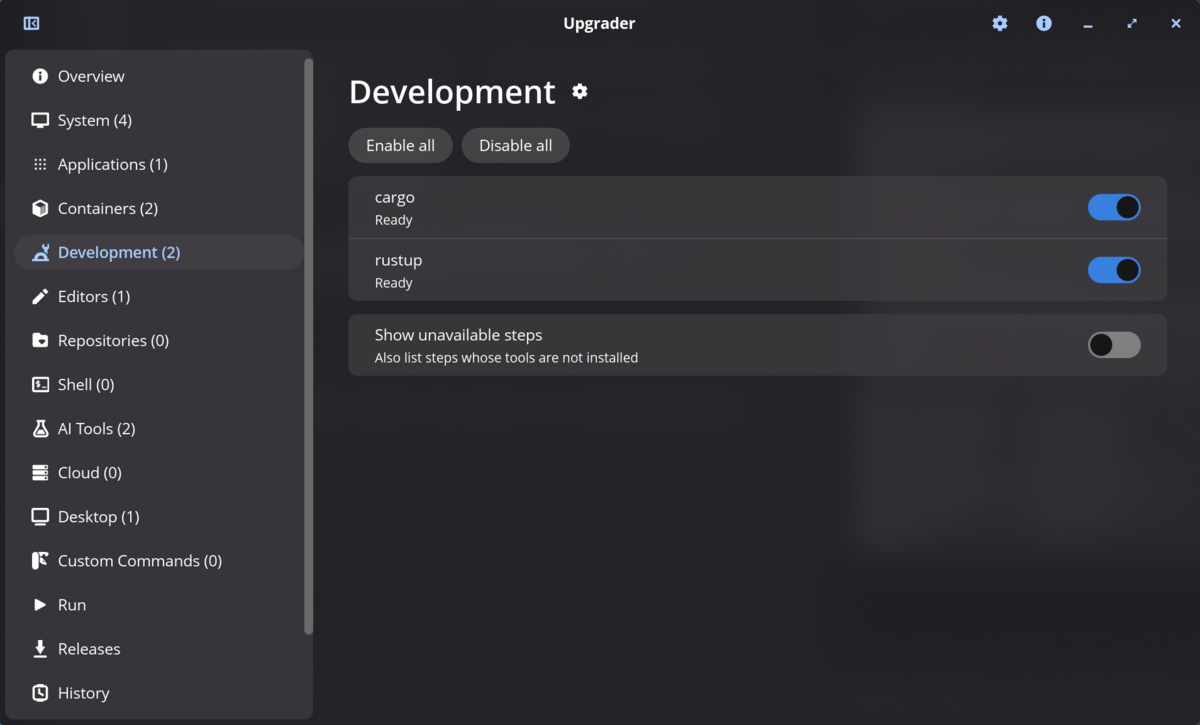
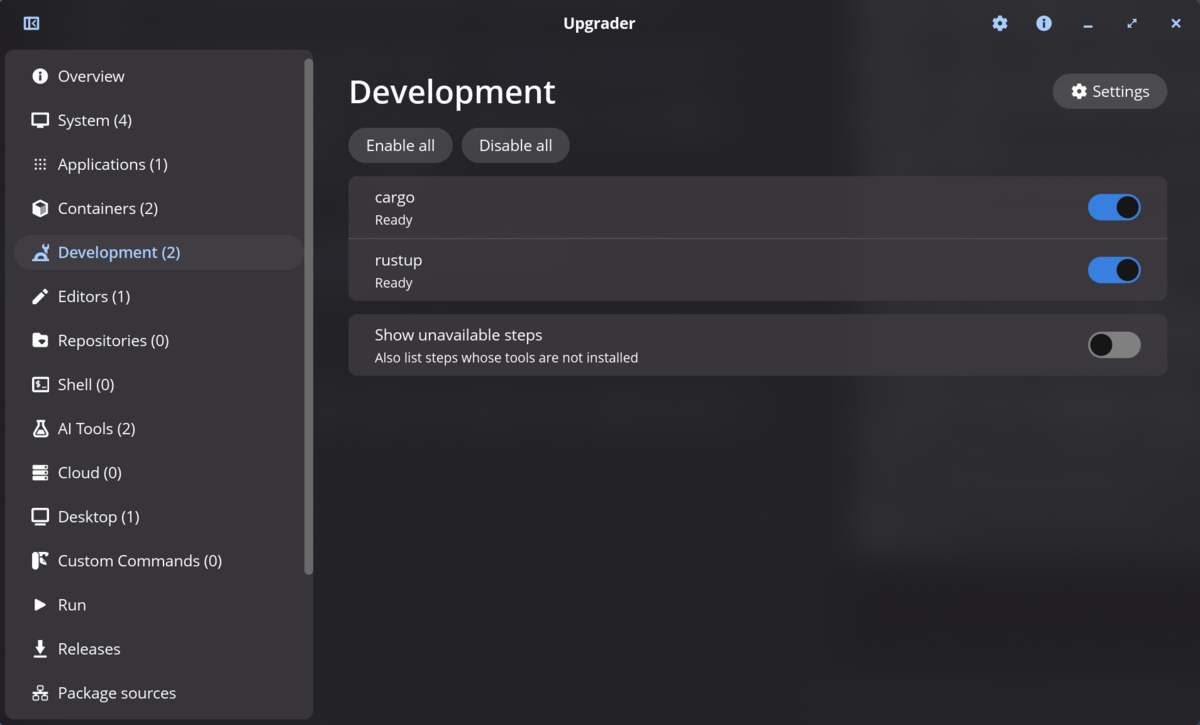
fix: make the per-category settings button findable, and land on the asked-for page
The gear sat flush against the category heading and read as decoration. It is
now a labelled button at the right of the row, where the eye already goes
looking for an action, and it fills in while the panel is open so it says which
state it is in rather than only what pressing it does.

Testing that turned up a second bug. A page named on the command line was
selected during startup, before topgrade had been asked what it can do -- so the
category entries did not exist yet, activating one found nothing, and it fell
back silently to the first entry. That is the path a self-update restart takes,
so restarting from a category page landed on Overview. The requested page is now
held until the sidebar has been rebuilt with everything in it.

diff --git a/src/app.rs b/src/app.rs
@@ -413,6 +413,14 @@ struct Run {
 pub struct App {
     /// Where to restart from; see [`Flags::executable`].
     executable: Option<PathBuf>,
+    /// The page asked for on the command line, held until there is a sidebar
+    /// with that page in it.
+    ///
+    /// The category entries do not exist until topgrade has been asked what it
+    /// can do, so activating one at startup would find nothing and silently fall
+    /// back to the first entry — which is what happened to a restart that had
+    /// been on a category page.
+    pending_page: Option<Page>,
     core: Core,
     config: Config,
     config_handler: Option<cosmic_config::Config>,
@@ -800,6 +808,7 @@ impl Application for App {
     fn init(core: Core, flags: Self::Flags) -> (Self, Task<Self::Message>) {
         let mut app = App {
             executable: flags.executable.clone(),
+            pending_page: flags.start_page.clone(),
             core,
             config: flags.config,
             config_handler: flags.config_handler,
@@ -1060,6 +1069,12 @@ impl Application for App {
                             changing_source: None,
                         }));
                         self.rebuild_nav();
+
+                        // Now that the sidebar has every page in it, the one
+                        // handed over by a restart can be selected.
+                        if let Some(page) = self.pending_page.take() {
+                            self.activate(&page);
+                        }
 
                         let scan = self.start_scan();
 
@@ -2615,21 +2630,33 @@ impl App {
                 .filter_map(|name| ready.schema.section(name))
                 .collect();
 
+        let open = ready.category_settings.contains(&category);
+
+        // The title takes the whole row so the button sits against the right
+        // edge. As a bare icon tucked against the heading it read as decoration
+        // — a labelled button at the end of the row is somewhere the eye
+        // already goes looking for an action.
         let mut heading = widget::row::with_children(Vec::new())
             .spacing(8)
             .align_y(Alignment::Center)
-            .push(widget::text::title2(category.label()));
+            .push(widget::text::title2(category.label()).width(Length::Fill));
 
         if !sections.is_empty() {
-            heading = heading.push(
-                widget::tooltip(
-                    widget::button::icon(widget::icon::from_name("emblem-system-symbolic"))
-                        .on_press(Message::ToggleCategorySettings(category))
-                        .padding(6),
-                    widget::text(fl!("category-settings")),
-                    widget::tooltip::Position::Bottom,
-                ),
-            );
+            // Filled while the panel is open, so the button says which state it
+            // is in rather than only what pressing it does.
+            let button = if open {
+                widget::button::suggested(fl!("settings"))
+            } else {
+                widget::button::standard(fl!("settings"))
+            };
+
+            heading = heading.push(widget::tooltip(
+                button
+                    .leading_icon(widget::icon::from_name("emblem-system-symbolic"))
+                    .on_press(Message::ToggleCategorySettings(category)),
+                widget::text(fl!("category-settings")),
+                widget::tooltip::Position::Left,
+            ));
         }
 
         let mut column = widget::column::with_children(Vec::new())
@@ -2650,7 +2677,7 @@ impl App {
 
         // The same controls as the configuration page, shown where the steps
         // they affect are, rather than only on a page of their own.
-        if ready.category_settings.contains(&category) {
+        if open {
             for section in &sections {
                 column = column.push(self.view_section(ready, section));
             }

diff --git a/README.md b/README.md
@@ -75,9 +75,11 @@ managers; `vim` reports four. Those are shown as components under the step.
 ![A category page, with per-step toggles and the settings gear](docs/steps.png)
 
 Unavailable steps are hidden by default — on a typical system they are most of
-the list. The gear beside the heading opens the topgrade settings belonging to
-that category, so `[cargo]` and `[rustup]` are reachable from Development rather
-than by hunting down a long configuration page.
+the list. **Settings** at the right of the heading opens the topgrade settings
+belonging to that category, so `[cargo]` and `[rustup]` are reachable from
+Development rather than by hunting down a long configuration page. It fills in
+while the panel is open, so the button says which state it is in rather than
+only what pressing it does.
 
 ## Features
 
